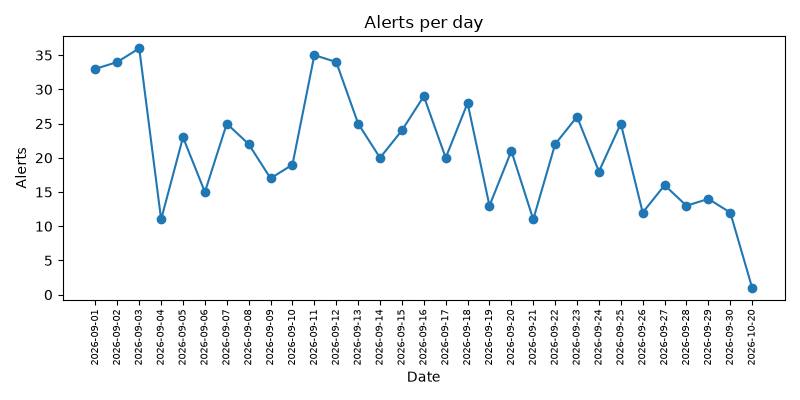
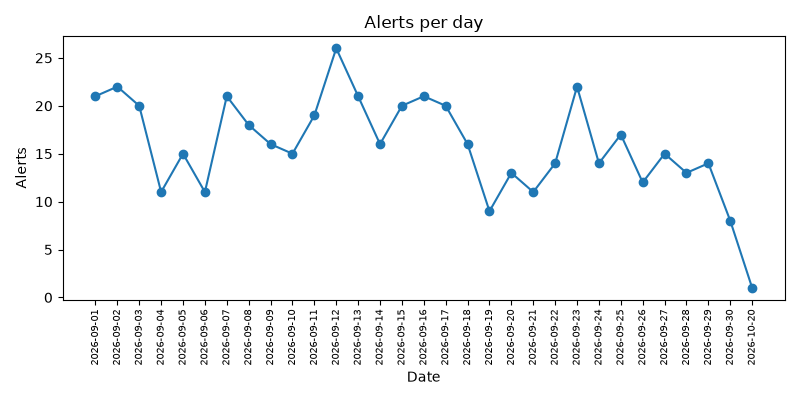
Done doing changes

diff --git a/scripts/run_rules.py b/scripts/run_rules.py
@@ -40,8 +40,11 @@ ts = df["ts"].to_numpy()
 freq = np.zeros(len(df), dtype=int)
 for idx in df.groupby("account_id").indices.values():
     t = ts[idx]
-    freq[idx] = (np.searchsorted(t, t + 600, side="right")
-                 - np.searchsorted(t, t - 600, side="left"))
+    freq[idx] = (
+    np.arange(len(t))
+    - np.searchsorted(t, t - 600, side="left")
+    + 1
+)
 df["freq10"] = freq
 f_freq = df["freq10"] >= T["HIGH_FREQUENCY"]
 
@@ -94,3 +97,18 @@ print("Normal transactions flagged (false positives):", fp)
 print("Planted anomalies missed (false negatives):", fn)
 print("Precision:", round(tp / max(tp + fp, 1) * 100, 1), "%")
 print("Recall:", round(tp / max(tp + fn, 1) * 100, 1), "%")
+
+tn = int((~flagged & ~planted).sum())
+
+precision = tp / max(tp + fp, 1)
+recall = tp / max(tp + fn, 1)
+f1 = 2 * precision * recall / max(precision + recall, 1e-10)
+
+print("\nEVALUATION REPORT")
+print("True Positives:", tp)
+print("True Negatives:", tn)
+print("False Positives:", fp)
+print("False Negatives:", fn)
+print("Precision:", round(precision, 3))
+print("Recall:", round(recall, 3))
+print("F1 Score:", round(f1, 3))

diff --git a/app.py b/app.py
@@ -393,4 +393,4 @@ def list_audit_log():
     return jsonify([clean(r) for r in rows])
 
 if __name__ == "__main__":
-    app.run(debug=True)
+    app.run(debug=False)
